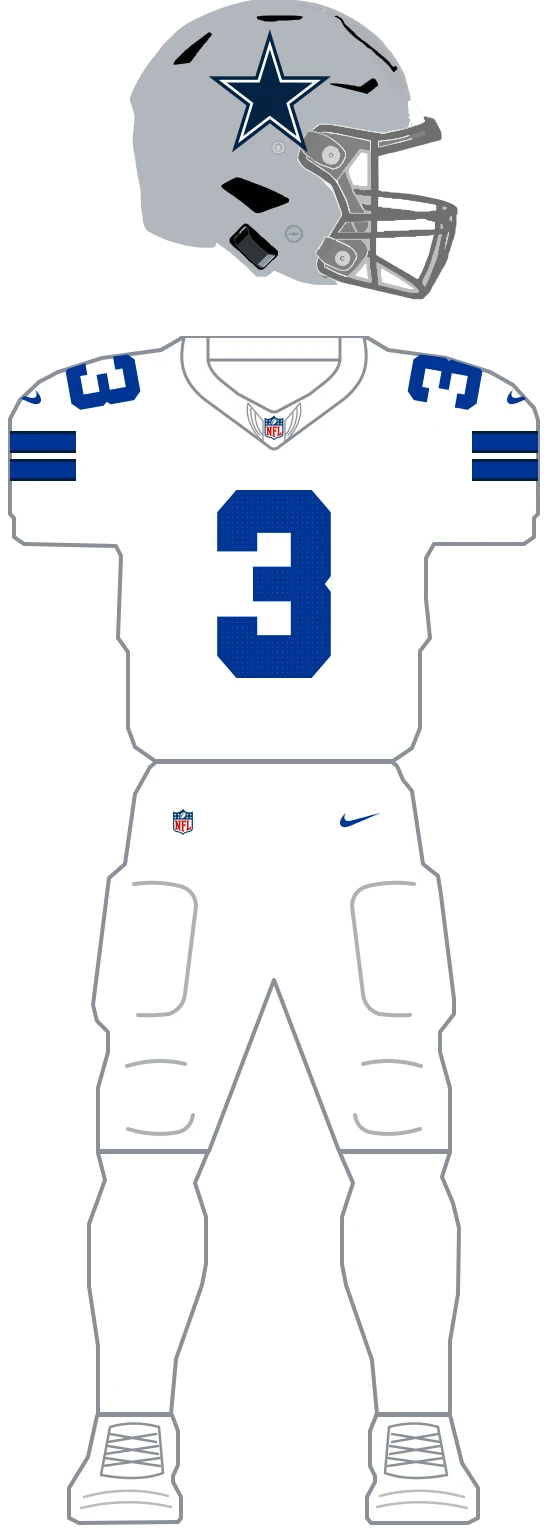
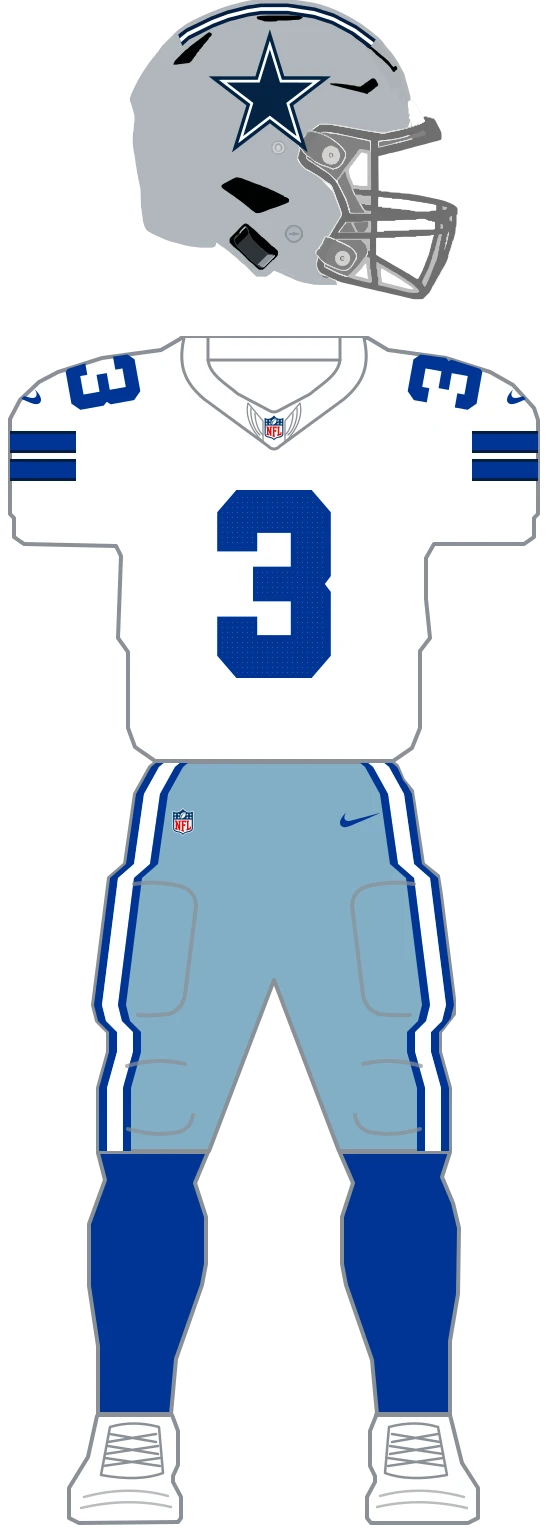
fix(uniforms): add the Cowboys crown stripe, chest wordmark and pants construction (#1110)

Changed region(s): [[0.1518, 0.4899, 0.8196, 0.9186], [0.3036, 0.0, 0.6679, 0.0306]]

diff --git a/web/lib/uniforms/teams/cowboys/marks/construction.ts b/web/lib/uniforms/teams/cowboys/marks/construction.ts
@@ -4,17 +4,68 @@ import { COWBOYS_DECAL_PATHS } from './decal';
 import { placed } from '../../core/marks';
 import type { Mark } from '../../core/marks';
 
-// The navy star with its white keyline, in the paint order of the source art.
-export const COWBOYS_STAR_DECAL = placed(
-  COWBOYS_DECAL_PATHS.map((layer, index) => ({
+// The navy/white/navy centre stripe in raw helmet coordinates, set below the shell's top rim so it
+// rides on the crown curve inside the silhouette rather than along its edge. The white centre takes
+// the middle third of the band, and the band ends well above the star's top point.
+const CROWN_STRIPE_PATH =
+  'M236,137 L252,125 L302,101 L334,89 L374,79 L402,75 L455,75 L509,83 L547,95 L593,119 L631,147 L619,165 L585,139 L544,117 L507,105 L455,97 L402,97 L376,101 L337,111 L306,123 L258,147 L244,160 Z';
+const CROWN_STRIPE_INNER_PATH =
+  'M238.6,144.6 L254,132.3 L303.3,108.3 L335,96.3 L374.7,86.3 L402,82.3 L455,82.3 L508.3,90.3 L546,102.3 L590.4,125.6 L627,152.9 L623,159.1 L587.6,132.4 L545,109.7 L507.7,97.7 L455,89.7 L402,89.7 L375.3,93.7 L336,103.7 L304.7,115.7 L256,139.7 L241.4,152.4 Z';
+
+// The crown stripe, then the navy star with its white keyline in the paint order of the source art.
+export const COWBOYS_STAR_DECAL = placed([
+  {
+    id: 'cowboys-crown-stripe',
+    surface: 'helmet',
+    d: CROWN_STRIPE_PATH,
+    clip: true,
+    kind: 'fill',
+    fill: 'deepNavy',
+  },
+  {
+    id: 'cowboys-crown-stripe-inner',
+    surface: 'helmet',
+    d: CROWN_STRIPE_INNER_PATH,
+    clip: true,
+    kind: 'fill',
+    fill: 'white',
+  },
+  ...COWBOYS_DECAL_PATHS.map((layer, index) => ({
     id: `cowboys-decal-${index}`,
     surface: 'helmet' as const,
     d: layer.d,
     clip: true,
     kind: 'fill' as const,
     fill: layer.fill,
-  }))
-);
+  })),
+]);
+
+// The small COWBOYS chest wordmark between the collar and the numeral: body-navy slab-serif letters
+// inside a white keyline, centred on the chest numeral's axis. Outlined from Rockwell Bold with
+// scripts/uniform-draw/outline-wordmark.py (--size 16.7 --x-scale 0.8 --tracking 0.6
+// --baseline-y 509 --pairs).
+const CHEST_WORDMARK_PATH =
+  'M261.89,497.66 L261.89,496.71 L263.56,496.71 L263.56,501.03 L261.89,501.03 Q261.15,498.69 259.43,498.69 Q258.57,498.69 257.91,499.25 Q257.25,499.8 256.88,500.76 Q256.51,501.72 256.51,502.88 Q256.51,503.98 256.86,504.89 Q257.21,505.8 257.84,506.34 Q258.46,506.88 259.28,506.88 Q260.28,506.88 261.02,506.01 Q261.76,505.14 262.02,503.72 L263.96,504.87 Q262.86,509.15 259.1,509.15 Q257.48,509.15 256.27,508.37 Q255.06,507.6 254.41,506.17 Q253.75,504.74 253.75,502.84 Q253.75,501.03 254.43,499.59 Q255.1,498.15 256.28,497.33 Q257.47,496.51 258.93,496.51 Q260.71,496.51 261.89,497.66 ZM265.67,502.82 Q265.67,500.95 266.36,499.52 Q267.04,498.1 268.28,497.3 Q269.53,496.51 271.15,496.51 Q272.76,496.51 274.0,497.3 Q275.24,498.1 275.92,499.53 Q276.6,500.97 276.6,502.82 Q276.6,504.69 275.92,506.13 Q275.24,507.56 273.99,508.36 Q272.75,509.15 271.15,509.15 Q269.57,509.15 268.32,508.36 Q267.07,507.56 266.37,506.13 Q265.67,504.69 265.67,502.82 Z M273.86,502.8 Q273.86,501.69 273.53,500.77 Q273.21,499.85 272.59,499.31 Q271.97,498.77 271.15,498.77 Q270.32,498.77 269.7,499.31 Q269.09,499.85 268.76,500.77 Q268.43,501.69 268.43,502.8 Q268.43,503.98 268.77,504.91 Q269.1,505.84 269.72,506.38 Q270.33,506.91 271.13,506.91 Q271.96,506.91 272.58,506.38 Q273.21,505.84 273.53,504.91 Q273.86,503.98 273.86,502.8 ZM281.33,498.8 L282.93,504.69 L284.43,498.8 L283.53,498.8 L283.53,496.71 L287.07,496.71 L287.07,498.8 L286.16,498.8 L287.77,504.69 L289.33,498.8 L288.33,498.8 L288.33,496.71 L292.28,496.71 L292.28,498.8 L291.21,498.8 L288.48,509.07 L286.66,509.07 L285.12,503.46 L283.65,509.07 L281.77,509.07 L278.96,498.8 L277.92,498.8 L277.92,496.71 L282.35,496.71 L282.35,498.8 ZM301.84,499.93 Q301.84,501.72 300.45,502.47 Q301.35,502.88 301.79,503.61 Q302.22,504.34 302.22,505.41 Q302.22,509.0 297.92,509.0 L293.35,509.0 L293.35,506.91 L294.56,506.91 L294.56,498.8 L293.35,498.8 L293.35,496.71 L297.92,496.71 Q299.91,496.71 300.88,497.51 Q301.84,498.31 301.84,499.93 Z M299.29,500.1 Q299.29,499.38 298.88,499.09 Q298.47,498.8 297.72,498.8 L297.11,498.8 L297.11,501.57 L297.9,501.57 Q298.6,501.57 298.95,501.24 Q299.29,500.9 299.29,500.1 Z M299.6,505.32 Q299.6,504.43 299.19,504.03 Q298.77,503.64 297.76,503.64 L297.11,503.64 L297.11,506.91 L298.12,506.91 Q298.8,506.91 299.2,506.53 Q299.6,506.15 299.6,505.32 ZM304.29,502.82 Q304.29,500.95 304.98,499.52 Q305.66,498.1 306.9,497.3 Q308.15,496.51 309.76,496.51 Q311.38,496.51 312.62,497.3 Q313.85,498.1 314.54,499.53 Q315.22,500.97 315.22,502.82 Q315.22,504.69 314.54,506.13 Q313.85,507.56 312.61,508.36 Q311.37,509.15 309.76,509.15 Q308.19,509.15 306.94,508.36 Q305.69,507.56 304.99,506.13 Q304.29,504.69 304.29,502.82 Z M312.48,502.8 Q312.48,501.69 312.15,500.77 Q311.83,499.85 311.21,499.31 Q310.59,498.77 309.76,498.77 Q308.94,498.77 308.32,499.31 Q307.71,499.85 307.38,500.77 Q307.05,501.69 307.05,502.8 Q307.05,503.98 307.39,504.91 Q307.72,505.84 308.34,506.38 Q308.95,506.91 309.75,506.91 Q310.58,506.91 311.2,506.38 Q311.83,505.84 312.15,504.91 Q312.48,503.98 312.48,502.8 ZM320.48,498.8 L321.9,501.8 L323.38,498.8 L322.36,498.8 L322.36,496.71 L326.7,496.71 L326.7,498.8 L325.49,498.8 L322.93,503.6 L322.93,506.91 L324.31,506.91 L324.31,509.0 L318.99,509.0 L318.99,506.91 L320.38,506.91 L320.38,503.6 L317.72,498.8 L316.52,498.8 L316.52,496.71 L321.43,496.71 L321.43,498.8 ZM332.26,497.73 L332.26,496.71 L333.93,496.71 L333.93,500.43 L332.26,500.43 Q332.15,499.53 331.79,499.08 Q331.43,498.63 330.85,498.63 Q330.45,498.63 330.16,498.91 Q329.88,499.2 329.88,499.63 Q329.88,500.01 330.06,500.29 Q330.24,500.57 330.53,500.76 Q330.81,500.95 331.39,501.27 L331.79,501.48 Q333.08,502.18 333.75,503.13 Q334.41,504.07 334.41,505.49 Q334.41,507.18 333.63,508.16 Q332.86,509.15 331.55,509.15 Q330.27,509.15 329.56,507.95 L329.56,509.0 L327.89,509.0 L327.89,504.82 L329.56,504.82 Q329.61,505.91 330.0,506.48 Q330.4,507.04 331.07,507.04 Q331.52,507.04 331.83,506.66 Q332.14,506.28 332.14,505.73 Q332.14,505.18 331.78,504.71 Q331.43,504.25 330.57,503.79 Q329.12,502.99 328.46,502.07 Q327.81,501.15 327.81,499.95 Q327.81,499.01 328.15,498.24 Q328.5,497.46 329.11,497.02 Q329.72,496.57 330.44,496.57 Q331.01,496.57 331.48,496.87 Q331.95,497.16 332.26,497.73 Z';
+
+export const COWBOYS_CHEST_WORDMARK = placed([
+  {
+    id: 'cowboys-chest-wordmark-keyline',
+    surface: 'jersey',
+    d: CHEST_WORDMARK_PATH,
+    clip: true,
+    kind: 'stroke',
+    stroke: 'white',
+    strokeWidth: 2.4,
+  },
+  {
+    id: 'cowboys-chest-wordmark',
+    surface: 'jersey',
+    d: CHEST_WORDMARK_PATH,
+    clip: true,
+    kind: 'fill',
+    fill: 'deepNavy',
+  },
+]);
 
 // The sleeve star: a navy star inside a white keyline and a navy edge, drawn in mannequin space
 // for the right sleeve, centred on the sleeve stripe at the outer edge, which trims it to about

diff --git a/web/lib/uniforms/teams/cowboys/parts.ts b/web/lib/uniforms/teams/cowboys/parts.ts
@@ -1,6 +1,6 @@
-// Dallas as a complete team spec: every helmet, jersey and pants part, with its own art drawn by
-// the marks in ./marks. Both kits share the silver star helmet and the white pants; the jerseys are
-// separate constructions.
+// Dallas as a complete team spec: every helmet, jersey, pants and socks part, with its own art drawn
+// by the marks in ./marks. Both kits share the silver star helmet; the navy jersey takes white
+// pants and the white jersey silver-blue pants with royal socks.
 import type { TeamSpec } from '../core/team-spec';
 import { COWBOYS_STAR_DECAL } from './marks/construction';
 import { COWBOYS_JERSEY_NAVY } from './jerseys/navy';
@@ -17,9 +17,24 @@ export const COWBOYS_PALETTE = {
   silver: '#869397',
   // The helmet shell, several steps lighter than the jersey silver.
   helmetSilver: '#B0B7BC',
+  // The white jersey's silver-blue pants as a flat approximation of the metallic fabric.
+  pantsSilverBlue: '#83AEC6',
   // The cage bars, darker than the shell.
   steelGrey: '#808080',
 };
+
+// A side-seam stripe on the leg's outer edge: two outer bands around a wider centre, stopping at
+// the hem.
+const legStripe = (outer: string, middle: string) => ({
+  position: 'leg-edge' as const,
+  bands: [
+    { color: outer, size: 's' as const },
+    { color: middle, size: 'm' as const },
+    { color: outer, size: 's' as const },
+  ],
+  gap: 'none' as const,
+  edge: 'none' as const,
+});
 
 export const COWBOYS_SPEC: TeamSpec = {
   helmets: {
@@ -35,7 +50,10 @@ export const COWBOYS_SPEC: TeamSpec = {
     white: COWBOYS_JERSEY_WHITE,
   },
   pants: {
-    white: { body: 'white', stripes: 'none', marks: [] },
+    white: { body: 'white', stripes: legStripe('deepNavy', 'silver'), marks: [] },
+    silverBlue: { body: 'pantsSilverBlue', stripes: legStripe('navy', 'white'), marks: [] },
   },
-  socks: {},
+  socks: {
+    royal: { color: 'navy', stripes: 'none' },
+  },
 };

diff --git a/web/lib/uniforms/teams/cowboys/jerseys/navy.ts b/web/lib/uniforms/teams/cowboys/jerseys/navy.ts
@@ -1,10 +1,10 @@
 import type { CompleteJerseySpec } from '../../core/complete';
 import { anchoredMark } from '../../core/jersey-spec';
-import { COWBOYS_SLEEVE_STAR } from '../marks/construction';
+import { COWBOYS_CHEST_WORDMARK, COWBOYS_SLEEVE_STAR } from '../marks/construction';
 import { COWBOYS_NUMBER_THREE } from '../marks/numbers';
 
 // Navy body, a white-over-silver neck band and rounded collar, a white-edged silver sleeve band
-// with the sleeve star over its outer end, white numerals.
+// with the sleeve star over its outer end, a small COWBOYS chest wordmark, white numerals.
 export const COWBOYS_JERSEY_NAVY: CompleteJerseySpec = {
   body: 'deepNavy',
   collar: {
@@ -39,5 +39,6 @@ export const COWBOYS_JERSEY_NAVY: CompleteJerseySpec = {
       slots: { edge: 'deepNavy', keyline: 'white', star: 'deepNavy' },
       id: 'sleeve-star',
     }),
+    { paint: 'over', mark: COWBOYS_CHEST_WORDMARK },
   ],
 };

diff --git a/web/lib/uniforms/teams/__tests__/catalogs.test.ts b/web/lib/uniforms/teams/__tests__/catalogs.test.ts
@@ -1123,10 +1123,10 @@ describe('Cowboys catalog conversion', () => {
     });
   });
 
-  it('pairs each jersey with the shared helmet and pants and leaves the socks in the pants colour', () => {
+  it('pairs the navy jersey with white pants and the white jersey with silver-blue pants and royal socks', () => {
     expect(pairings(catalog)).toEqual({
       home: { helmet: 'silver-star', jersey: 'navy', pants: 'white' },
-      away: { helmet: 'silver-star', jersey: 'white', pants: 'white' },
+      away: { helmet: 'silver-star', jersey: 'white', pants: 'silverBlue', socks: 'royal' },
     });
   });
 });

diff --git a/web/lib/uniforms/teams/cowboys/catalog.ts b/web/lib/uniforms/teams/cowboys/catalog.ts
@@ -55,7 +55,8 @@ export const COWBOYS_CATALOG: TeamCatalog = {
           key: 'standard',
           label: 'Standard',
           helmet: 'silver-star',
-          pants: 'white',
+          pants: 'silverBlue',
+          socks: 'royal',
           pantsNike: 'navy',
         },
       ],
